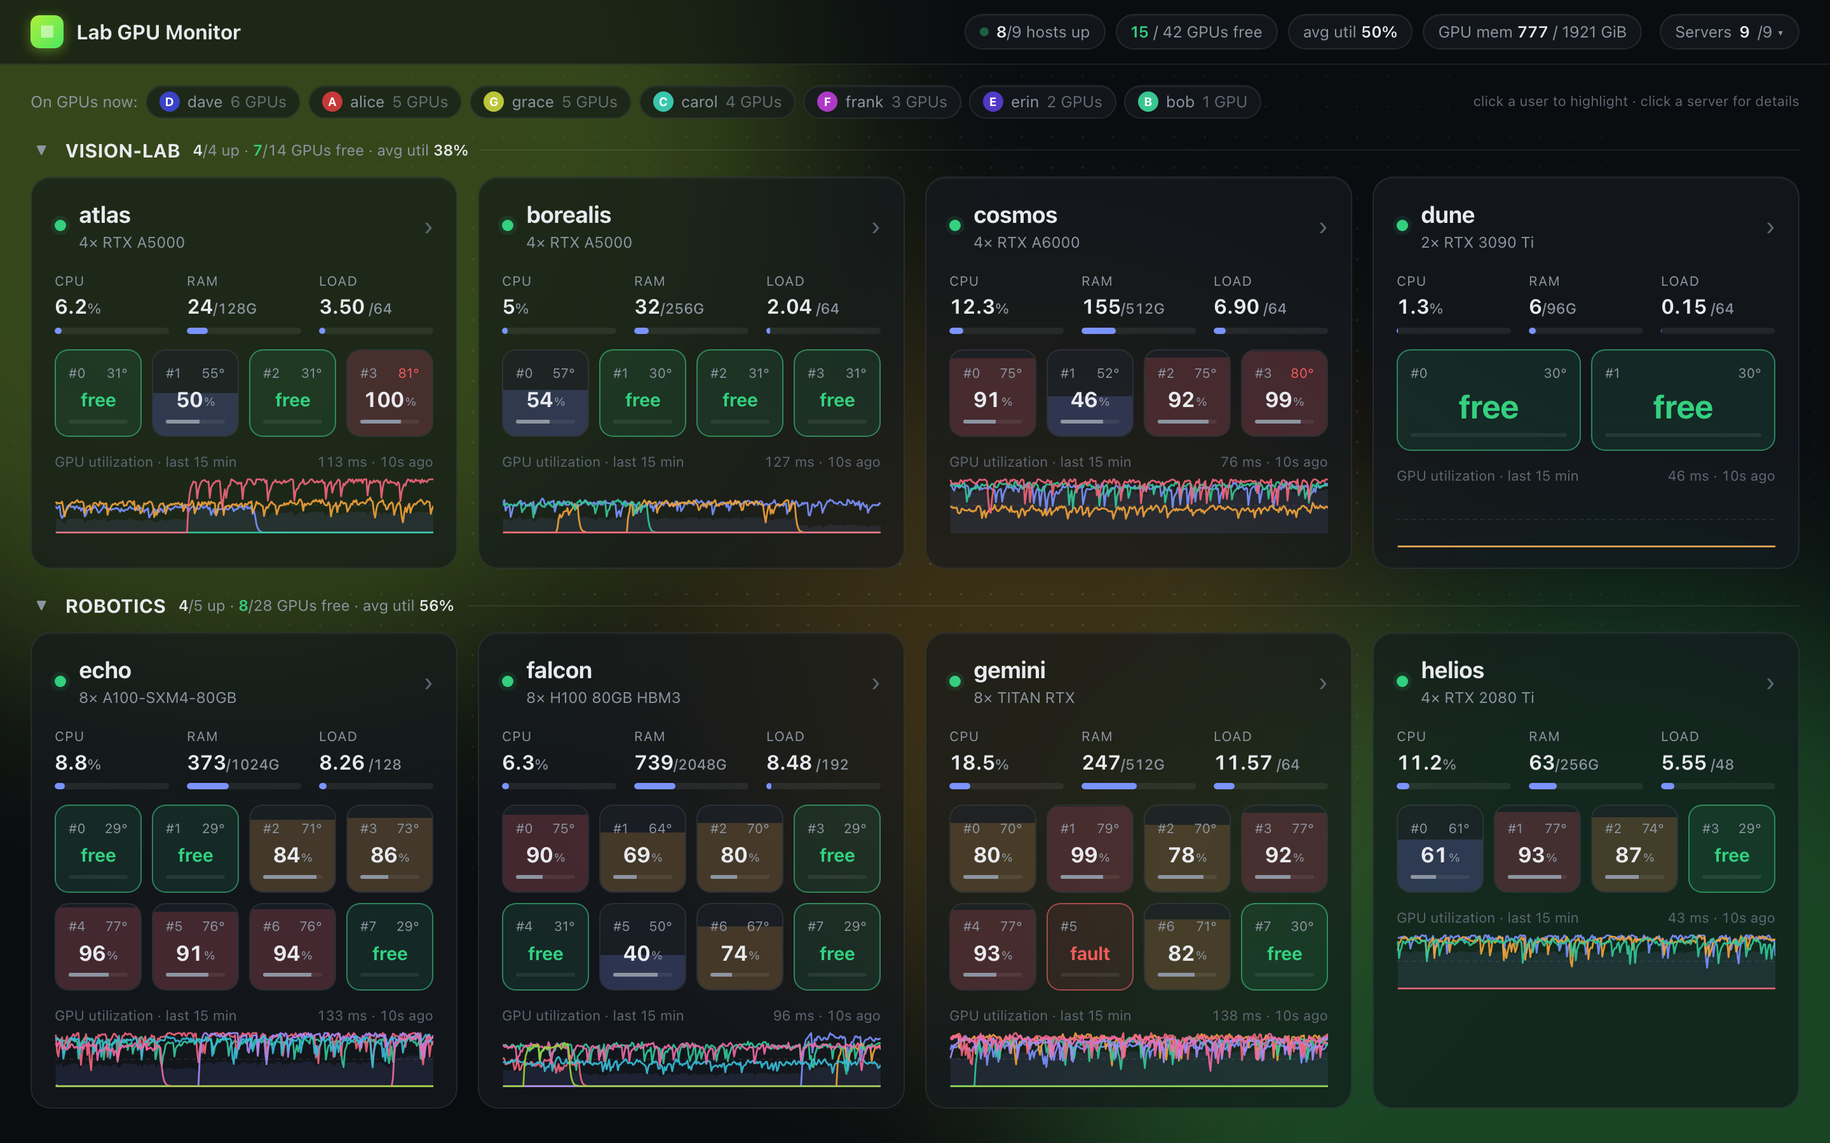
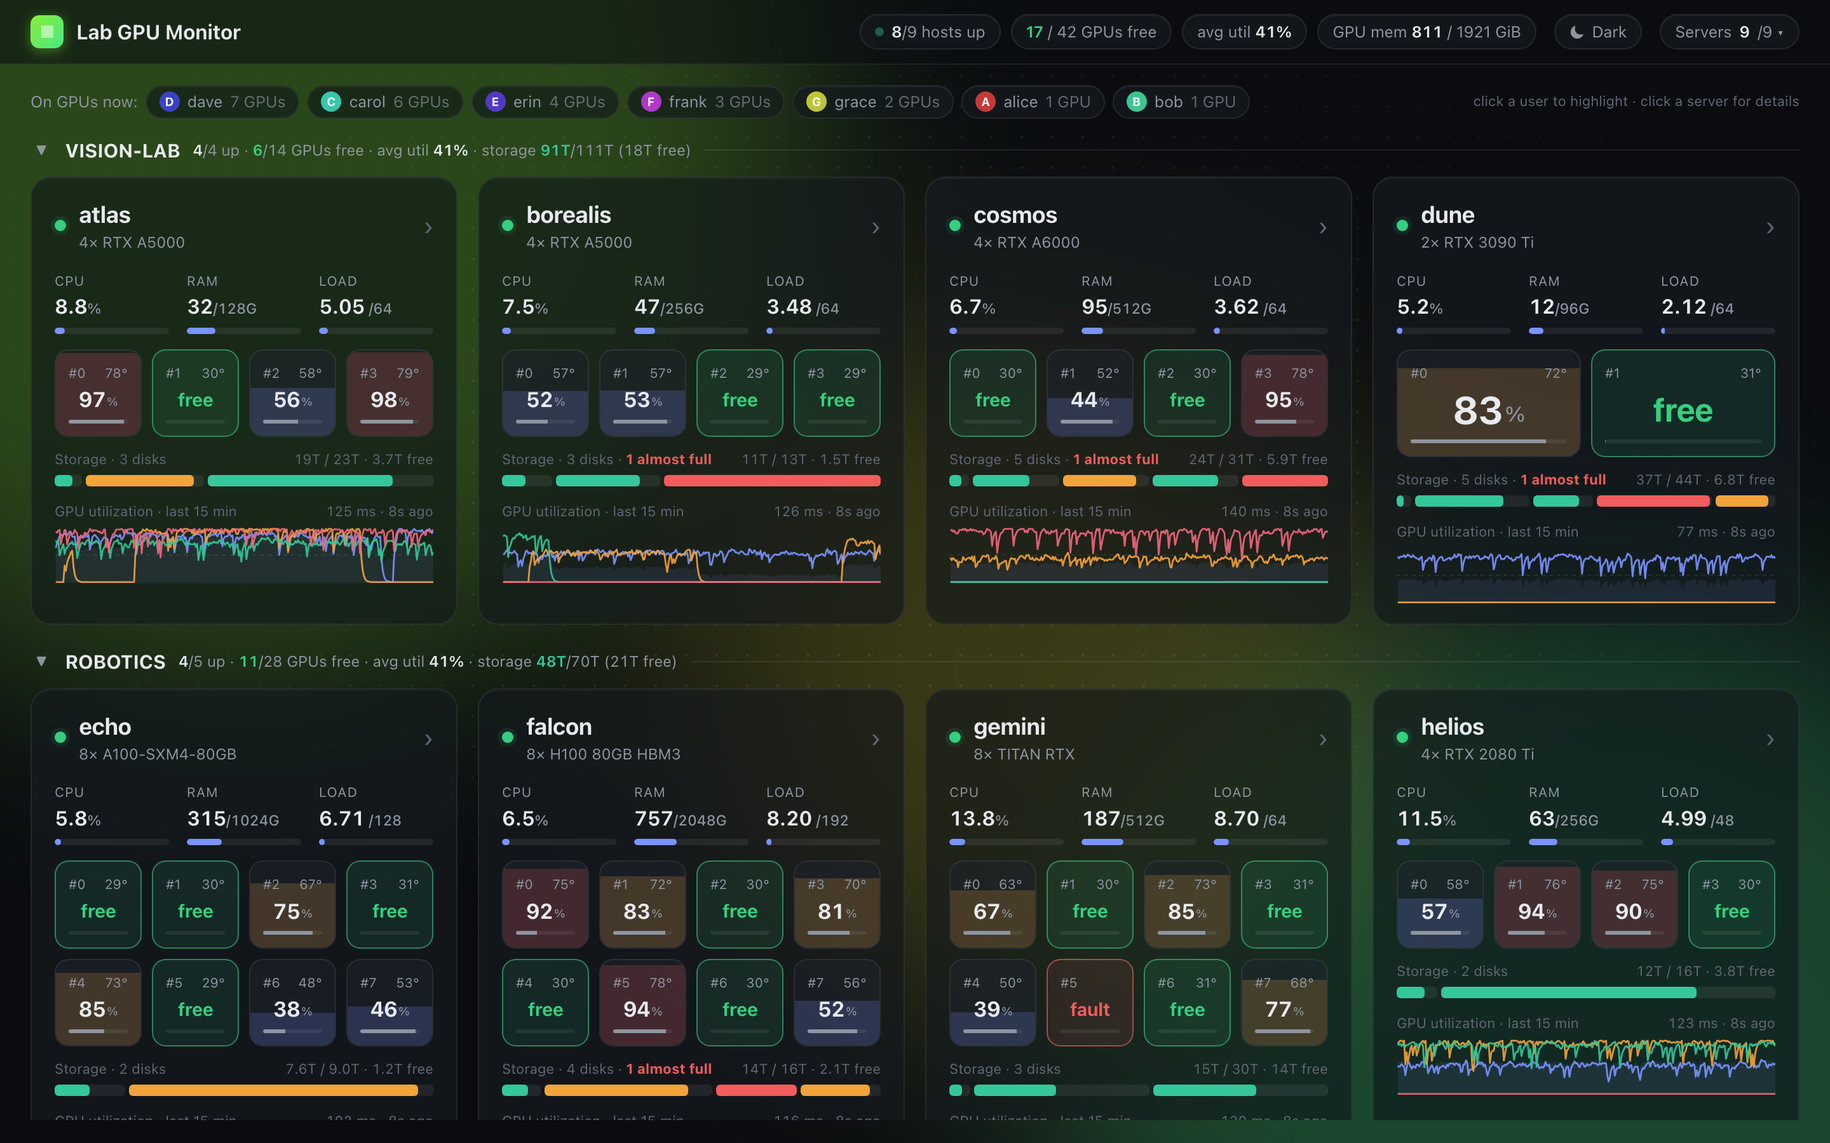
Report data storage per server
Collect every local disk mounted at / or under /data (configurable with
GPUMON_DATA_ROOT) via `df -lPT`, skipping network mounts so shared
disks aren't double-counted and a hung NFS mount can't stall polling.

- Overview: per-card storage strip (one segment per disk, sized by
  capacity, colored by fullness) and storage totals per group.
- Server page: "Data storage" KPI and a Storage tab listing each disk's
  size, used, free and device, flagging disks >=95% full.
- Optional "_aliases" in hosts.json label disks the way other machines
  see them over NFS (e.g. ws1:/data).
- Demo mode gets realistic data disks; README screenshots refreshed.

diff --git a/index.html b/index.html
@@ -144,6 +144,18 @@ main { max-width: 1680px; margin: 0 auto; padding: 16px 24px 32px; }
 .tile.fault .tu { color: var(--bad); }
 .grow.fault { border-color: color-mix(in srgb, var(--bad) 50%, var(--line)); }
 
+/* storage */
+.store { margin-top: 10px; }
+.sstrip { display: flex; gap: 3px; height: 9px; }
+.sseg { position: relative; background: var(--track); border-radius: 3px; overflow: hidden; min-width: 8px; cursor: default; }
+.sseg i { position: absolute; left: 0; top: 0; bottom: 0; border-radius: 3px; }
+.aka { font-size: 11px; color: var(--muted); border: 1px solid var(--line); border-radius: 5px; padding: 0 5px; margin-left: 6px; font-weight: 500; vertical-align: 2px; }
+.stot { display: flex; gap: 14px; flex-wrap: wrap; font-size: 12px; color: var(--muted); padding: 10px 0 4px; border-bottom: 1px solid var(--line); }
+.stot b { color: var(--text); }
+.dsub { display: flex; justify-content: space-between; gap: 8px; font-size: 11.5px; color: var(--faint); margin-top: 4px; flex-wrap: wrap; }
+.tag { font-size: 10.5px; border-radius: 5px; padding: 0 5px; margin-left: 6px; border: 1px solid var(--line); color: var(--muted); font-weight: 500; }
+.tag.bad { color: var(--bad); border-color: color-mix(in srgb, var(--bad) 45%, transparent); }
+
 /* theme toggle */
 .tbtn { cursor: pointer; display: inline-flex; align-items: center; gap: 6px; }
 .tbtn:hover { border-color: var(--faint); color: var(--text); }
@@ -276,7 +288,7 @@ td.c { color: var(--muted); max-width: 0; width: 100%; overflow: hidden; text-ov
   .chart { min-height: 0; }
   .cw { flex: 1; min-height: 60px; height: auto; }
   .dright { min-height: 0; }
-  .gpus { flex: 0 1 auto; min-height: 0; overflow: auto; }
+  .gpus { flex: 0 1 auto; min-height: 0; max-height: 50%; overflow: auto; }
   .tabs-panel { flex: 1 1 180px; min-height: 160px; }
   .tab-body { flex: 1; min-height: 0; }
 }
@@ -317,6 +329,17 @@ function userColor(u) { let h = 0; for (const c of u) h = (h * 31 + c.charCodeAt
 const avatar = u => `<span class="avatar" style="background:${userColor(u)}">${esc(u[0]?.toUpperCase() || "?")}</span>`;
 const cssVar = n => getComputedStyle(document.documentElement).getPropertyValue(n).trim();
 const resolve = c => c.startsWith("var(") ? cssVar(c.slice(4, -1)) : c;
+const fmtSize = b => { if (b == null) return "–"; const u = ["B", "K", "M", "G", "T", "P"]; let i = 0; while (b >= 1024 && i < u.length - 1) { b /= 1024; i++; } return (b < 10 && i ? b.toFixed(1) : Math.round(b)) + u[i]; };
+const diskPct = d => (d.used + (d.avail ?? 0)) > 0 ? 100 * d.used / (d.used + (d.avail ?? d.total - d.used)) : 0;
+const diskCol = p => p >= 95 ? "var(--bad)" : p >= 85 ? "var(--warn)" : "var(--s2)";
+const diskLabel = (h, d) => (h.alias && d.label !== "/" ? h.alias + ":" : "") + d.label;  // a separate system disk isn't part of the export
+const storeSum = disks => { let used = 0, total = 0, avail = 0, full = 0; disks.forEach(d => { used += d.used || 0; total += d.total || 0; avail += d.avail || 0; if (diskPct(d) >= 95) full++; }); return { used, total, avail, full, n: disks.length, pct: used + avail ? 100 * used / (used + avail) : 0 }; };
+function storageStrip(h) {
+  const ds = h.disks || []; if (!ds.length) return "";
+  const t = storeSum(ds);
+  const segs = ds.map((d, i) => { const p = diskPct(d); return `<div class="sseg" style="flex:${Math.max(d.total, t.total * 0.04)} 1 0" data-dtip="${esc(h.host)}|${i}"><i style="width:${clamp(p)}%;background:${diskCol(p)}"></i></div>`; }).join("");
+  return `<div class="store"><div class="trend-h"><span>Storage · ${t.n} disk${t.n > 1 ? "s" : ""}${t.full ? ` · <b style="color:var(--bad)">${t.full} almost full</b>` : ""}</span><span class="num">${fmtSize(t.used)} / ${fmtSize(t.total)} · ${fmtSize(t.avail)} free</span></div><div class="sstrip">${segs}</div></div>`;
+}
 const avgUtil = gpus => gpus.length ? gpus.reduce((a, g) => a + (g.util || 0), 0) / gpus.length : 0;
 
 /* ---------- dynamic background: hue follows GPU load ---------- */
@@ -377,6 +400,12 @@ function gpuTip(host, g) {
     ${procs || `<div style="margin-top:6px;color:var(--ok);font-weight:600">Free</div>`}`;
 }
 document.addEventListener("mousemove", e => {
+  const ds = e.target.closest?.("[data-dtip]");
+  if (ds) {
+    const [host, i] = ds.dataset.dtip.split("|"), h = S.stats?.hosts.find(x => x.host === host), d = h?.disks?.[i];
+    if (d) { const p = diskPct(d); showTip(`<div class="tt">${esc(diskLabel(h, d))}</div><div class="row"><span>Used</span><b class="num" style="color:${diskCol(p)}">${fmtSize(d.used)} / ${fmtSize(d.total)} · ${Math.round(p)}%</b></div><div class="row"><span>Free</span><b class="num">${fmtSize(d.avail)}</b></div><div class="cmd mono">${esc(d.fs)} · ${esc(d.type || "")}${d.system ? " · system disk" : ""}</div>`, e.clientX, e.clientY); }
+    return;
+  }
   const el = e.target.closest?.("[data-tip]");
   if (!el) { if (!e.target.closest?.("canvas")) hideTip(); return; }
   const [host, idx] = el.dataset.tip.split(":");
@@ -554,7 +583,7 @@ function hostCard(h) {
     </div>`;
   }).join("");
   return `<a class="hcard glass ${h.ok ? "" : "down"}" href="#/h/${encodeURIComponent(h.host)}" tabindex="0">
-    <div class="hhead"><span class="sdot"></span><div><div class="hname">${esc(h.host)}${h.via ? `<span class="via" title="direct connection failed; reached through the ${esc(h.via)} alias">via ${esc(h.via)}</span>` : ""}</div><div class="hsub">${esc(hw)}</div></div><span class="go">›</span></div>
+    <div class="hhead"><span class="sdot"></span><div><div class="hname">${esc(h.host)}${h.alias ? `<span class="aka" title="other machines see this server as ${esc(h.alias)}">${esc(h.alias)}</span>` : ""}${h.via ? `<span class="via" title="direct connection failed; reached through the ${esc(h.via)} alias">via ${esc(h.via)}</span>` : ""}</div><div class="hsub">${esc(hw)}</div></div><span class="go">›</span></div>
     ${h.ok ? "" : `<div class="errline">${h.updated ? "offline, showing last data · " : ""}${esc(h.error)}</div>`}
     ${h.updated ? `
     <div class="minis">
@@ -563,6 +592,7 @@ function hostCard(h) {
       <div class="mini"><div class="k">Load</div><div class="v num">${h.load?.[0]?.toFixed(2) ?? "–"}<small> /${h.nproc}</small></div>${bar(loadPct)}</div>
     </div>
     <div class="tiles">${tiles}</div>
+    ${storageStrip(h)}
     <div class="trend"><div class="trend-h"><span>GPU utilization · last 15 min</span><span class="num">${h.latency_ms} ms · ${ago(h.updated)}</span></div>${trendSvg(h.host, gpus.length)}</div>` : ""}
   </a>`;
 }
@@ -586,7 +616,7 @@ function renderOverview() {
     const rows = Math.ceil(g.hosts.length / cols);
     return `<section class="group ${col ? "collapsed" : ""}" style="--rows:${rows};--cols:${cols}">
       <div class="group-h"><button class="gtoggle" data-collapse="${esc(g.name)}" title="collapse">▼</button><h2>${esc(g.name)}</h2>
-        <span class="gmeta num"><b>${up}</b>/${g.hosts.length} up${g.hosts.length < g.all.length ? ` (${g.all.length - g.hosts.length} hidden)` : ""} · <b style="color:var(--ok)">${gp.filter(isFree).length}</b>/${gp.length} GPUs free · avg util <b>${Math.round(avgUtil(gp))}%</b></span><span class="line"></span></div>
+        <span class="gmeta num"><b>${up}</b>/${g.hosts.length} up${g.hosts.length < g.all.length ? ` (${g.all.length - g.hosts.length} hidden)` : ""} · <b style="color:var(--ok)">${gp.filter(isFree).length}</b>/${gp.length} GPUs free · avg util <b>${Math.round(avgUtil(gp))}%</b>${(() => { const t = storeSum(g.hosts.flatMap(h => h.disks || [])); return t.n ? ` · storage <b style="color:${diskCol(t.pct)}">${fmtSize(t.used)}</b>/${fmtSize(t.total)} (${fmtSize(t.avail)} free)` : ""; })()}</span><span class="line"></span></div>
       ${col ? "" : `<div class="grid">${g.hosts.map(hostCard).join("")}</div>`}
     </section>`;
   }).join("");
@@ -647,6 +677,7 @@ function renderDetail(host) {
   const h = S.stats.hosts.find(x => x.host === host);
   if (!h) { $("#app").innerHTML = `<div class="empty">Unknown server “${esc(host)}”. <a href="#/" style="color:var(--accent)">Back</a></div>`; S.view = null; return; }
   if (S.view !== host) buildDetail(host);
+  $(".dtitle").innerHTML = `<span class="sdot" id="d-dot"></span>${esc(host)}${h.alias ? `<span class="aka">${esc(h.alias)}</span>` : ""}`;
   $("#crumb").innerHTML = `/ ${esc(h.group)} / <b>${esc(host)}</b>${h.via ? ` <span class="via">via ${esc(h.via)}</span>` : ""}`;
   const gpus = h.gpus || [], info = h.info || {};
   $("#d-dot").style.background = h.ok ? "" : "var(--bad)";
@@ -656,7 +687,6 @@ function renderDetail(host) {
   if (!h.updated) return;
 
   const memPct = h.mem_total ? 100 * (1 - h.mem_avail / h.mem_total) : 0;
-  const swapUsed = (h.swap_total || 0) - (h.swap_free || 0);
   const gFree = gpus.filter(isFree).length, gUtil = avgUtil(gpus);
   const gMemU = gpus.reduce((a, g) => a + (g.mem_used || 0), 0), gMemT = gpus.reduce((a, g) => a + (g.mem_total || 0), 0);
   const kpi = (k, v, p) => `<div class="kpi glass"><div class="k">${k}</div><div class="v num">${v}</div>${p != null ? bar(p) : `<div class="bar" style="background:none"></div>`}</div>`;
@@ -667,7 +697,7 @@ function renderDetail(host) {
     kpi("Avg GPU util", `${Math.round(gUtil)}<small>%</small>`, gUtil) +
     kpi("GPU memory", `${(gMemU/1024).toFixed(1)}<small> / ${(gMemT/1024).toFixed(0)} GiB</small>`, gMemT ? 100 * gMemU / gMemT : 0) +
     kpi("Load (1 · 5 · 15 min)", `${h.load?.[0]?.toFixed(2) ?? "–"}<small> · ${h.load?.[1]?.toFixed(2) ?? "–"} · ${h.load?.[2]?.toFixed(2) ?? "–"}</small>`, h.nproc ? 100 * h.load[0] / h.nproc : 0) +
-    kpi("Swap", `${fmtGiB(swapUsed, 1)}<small> / ${fmtGiB(h.swap_total || 0)} GiB</small>`, h.swap_total ? 100 * swapUsed / h.swap_total : 0) +
+    (() => { const t = storeSum(h.disks || []); return `<div class="kpi glass"><div class="k">Data storage · ${t.n} disk${t.n === 1 ? "" : "s"}</div><div class="v num" style="${t.full ? "color:var(--bad)" : ""}">${fmtSize(t.used)}<small> / ${fmtSize(t.total)}</small></div>${bar(t.pct, diskCol(t.pct))}</div>`; })() +
     kpi("Uptime", days(h.uptime));
 
   // charts
@@ -703,14 +733,17 @@ function renderDetail(host) {
 
   // tabbed panel
   const top = h.top || [], disks = h.disks || [], who = h.who || [];
-  const tabs = [["procs", "Top processes", top.length], ["disks", "Disks", disks.length], ["users", "Logged in", who.length]];
+  const tabs = [["procs", "Top processes", top.length], ["disks", "Storage", disks.length], ["users", "Logged in", who.length]];
   $("#d-tabs").innerHTML = tabs.map(([k, l, n]) => `<button data-tab="${k}" class="${S.tab === k ? "on" : ""}">${l}<span class="n">${n}</span></button>`).join("");
   let body = "";
   if (S.tab === "procs") {
     body = `<table><thead><tr><th>PID</th><th>User</th><th class="r">CPU%</th><th class="r">MEM%</th><th>Elapsed</th><th>Command</th></tr></thead><tbody>${
       top.map(p => `<tr><td class="num">${esc(p.pid)}</td><td>${avatar(p.user)} ${esc(p.user)}</td><td class="r num">${p.cpu?.toFixed(1)}</td><td class="r num">${p.mem?.toFixed(1)}</td><td class="num">${esc(p.etime)}</td><td class="c mono" title="${esc(p.cmd)}">${esc(p.cmd)}</td></tr>`).join("")}</tbody></table>`;
   } else if (S.tab === "disks") {
-    body = disks.map(d => { const p = d.total ? 100 * d.used / d.total : 0; return `<div class="disk"><div class="lbl"><span><b>${esc(d.mount)}</b> <span style="color:var(--faint)">${esc(d.fs)}</span></span><b class="num">${fmtGiB(d.used)} / ${fmtGiB(d.total)} GiB · ${Math.round(p)}%</b></div>${bar(p, p >= 90 ? "var(--bad)" : p >= 75 ? "var(--warn)" : "var(--s2)")}</div>`; }).join("") || `<div class="kbd" style="padding:10px 0">none</div>`;
+    const t = storeSum(disks);
+    body = disks.length ? `<div class="stot num"><span>Total <b>${fmtSize(t.total)}</b></span><span>Used <b style="color:${diskCol(t.pct)}">${fmtSize(t.used)}</b> (${Math.round(t.pct)}%)</span><span>Free <b>${fmtSize(t.avail)}</b></span>${t.full ? `<span style="color:var(--bad)">${t.full} disk${t.full > 1 ? "s" : ""} ≥95% full</span>` : ""}</div>` +
+      disks.map(d => { const p = diskPct(d); return `<div class="disk"><div class="lbl"><span><b>${esc(diskLabel(h, d))}</b>${d.system ? `<span class="tag">system disk</span>` : ""}${p >= 95 ? `<span class="tag bad">almost full</span>` : ""}</span><b class="num" style="color:${diskCol(p)}">${Math.round(p)}%</b></div>${bar(p, diskCol(p))}<div class="dsub num"><span class="mono">${esc(d.fs)} · ${esc(d.type || "")}</span><span>${fmtSize(d.used)} used · <b style="color:var(--text)">${fmtSize(d.avail)}</b> free · ${fmtSize(d.total)} total</span></div></div>`; }).join("")
+      : `<div class="kbd" style="padding:10px 0">no local disks under /data</div>`;
   } else {
     body = `<div style="display:flex;gap:6px;flex-wrap:wrap;padding:10px 0">${who.map(w => `<span class="gu" style="padding-right:10px">${avatar(w.user)}<b>${esc(w.user)}</b><span style="color:var(--muted)">${w.sessions} session${w.sessions > 1 ? "s" : ""}</span></span>`).join("") || `<span class="kbd">nobody</span>`}</div>`;
   }

diff --git a/server.py b/server.py
@@ -26,6 +26,8 @@ HERE = os.path.dirname(os.path.abspath(__file__))
 
 
 DEMO = "--demo" in sys.argv[1:]
+ALIASES = {}  # host -> name other machines use for it (e.g. its NFS export name), from "_aliases"
+DATA_ROOT = os.environ.get("GPUMON_DATA_ROOT", "/data").rstrip("/") or "/data"
 
 
 def load_groups():
@@ -45,6 +47,7 @@ def load_groups():
         )
     with open(path) as f:
         cfg = json.load(f)
+    ALIASES.update(cfg.get("_aliases") or {})
     groups = [{"name": k, "hosts": v} for k, v in cfg.items() if not k.startswith("_") and v]
     if not groups:
         sys.exit(f"gpumon: {path} has no hosts")
@@ -86,7 +89,7 @@ echo '##GPU'; nvidia-smi --query-gpu=%s --format=csv,noheader,nounits 2>&1
 echo '##APPS'; nvidia-smi --query-compute-apps=gpu_uuid,pid,used_memory --format=csv,noheader,nounits 2>/dev/null
 echo '##PS'; for p in $(nvidia-smi --query-compute-apps=pid --format=csv,noheader 2>/dev/null | sort -u); do ps -o pid=,user:32=,etime=,args= -p "$p" 2>/dev/null; done
 echo '##TOP'; ps -eo pid=,user:32=,pcpu=,pmem=,etime=,args= --sort=-pcpu 2>/dev/null | head -12
-echo '##DISK'; df -P -B1 / /home /data /scratch 2>/dev/null | tail -n +2
+echo '##DISK'; timeout 8 df -lPT -B1 -x tmpfs -x devtmpfs -x overlay -x squashfs -x efivarfs 2>/dev/null | tail -n +2
 echo '##WHO'; who 2>/dev/null | awk '{print $1}' | sort | uniq -c
 echo '##END'
 """ % GPU_FIELDS
@@ -100,7 +103,8 @@ echo '##CUDA'; nvidia-smi 2>/dev/null | grep -o 'CUDA Version: [0-9.]*' | awk '{
 echo '##END'
 """
 
-state = {h: {"host": h, "group": GROUP_OF[h], "ok": False, "error": "connecting…", "updated": None, "info": {}, "via": None}
+state = {h: {"host": h, "group": GROUP_OF[h], "ok": False, "error": "connecting…", "updated": None, "info": {}, "via": None,
+             "alias": ALIASES.get(h)}
          for h in HOSTS}
 history = {h: deque(maxlen=max(10, int(HISTORY_SECS / INTERVAL))) for h in HOSTS}
 lock = threading.Lock()
@@ -190,12 +194,7 @@ def parse(out):
             top.append({"pid": parts[0], "user": parts[1], "cpu": num(parts[2]), "mem": num(parts[3]),
                         "etime": parts[4], "cmd": parts[5] if len(parts) > 5 else ""})
 
-    disks, seen = [], set()
-    for l in sec.get("DISK", []):
-        parts = l.split()
-        if len(parts) >= 6 and parts[0] not in seen:
-            seen.add(parts[0])
-            disks.append({"fs": parts[0], "mount": parts[5], "total": num(parts[1]), "used": num(parts[2])})
+    disks = parse_disks(sec.get("DISK", []))
 
     who = []
     for l in sec.get("WHO", []):
@@ -217,6 +216,37 @@ def parse(out):
         "load": load, "uptime": num(first(sec, "UPTIME", "")),
         "gpus": gpus, "top": top, "disks": disks, "who": who,
     }
+
+
+def _natural(s):
+    return [int(t) if t.isdigit() else t for t in re.split(r"(\d+)", s)]
+
+
+def parse_disks(lines):
+    """Local disks mounted at / or under DATA_ROOT, from `df -lPT -B1`.
+
+    Each gets a `label`: its mount point, except that when DATA_ROOT is not a separate disk the root
+    disk is labelled DATA_ROOT (that's where the data lives) and flagged `system`.
+    """
+    disks, seen = [], set()
+    for l in lines:
+        p = l.split()
+        if len(p) < 7:
+            continue
+        fs, fstype, size, used, avail, mount = p[0], p[1], num(p[2]), num(p[3]), num(p[4]), " ".join(p[6:])
+        if not size or fs in seen:
+            continue
+        if mount != "/" and mount != DATA_ROOT and not mount.startswith(DATA_ROOT + "/"):
+            continue
+        seen.add(fs)
+        disks.append({"fs": fs, "type": fstype, "mount": mount, "label": mount, "total": size, "used": used,
+                      "avail": avail, "system": mount == "/"})
+    if not any(d["mount"] == DATA_ROOT for d in disks):
+        for d in disks:
+            if d["mount"] == "/":
+                d["label"] = DATA_ROOT  # data folder lives on the system disk
+    disks.sort(key=lambda d: (d["mount"] != "/", _natural(d["label"])))
+    return disks
 
 
 def sample(d):

diff --git a/demo.py b/demo.py
@@ -56,6 +56,16 @@ class Host:
         self.uptime0 = t0 - self.rng.uniform(3, 60) * 86400
         self.pid = self.rng.randint(100000, 900000)
         self.gpus = [{"index": i, "job": None, "util": 0.0} for i in range(n)]
+        TiB = 1024 ** 4
+        self.disks = [{"fs": "/dev/nvme0n1p2", "type": "ext4", "mount": "/", "label": "/", "system": True,
+                       "total": 1.7 * TiB, "used": 1.7 * TiB * self.rng.uniform(0.3, 0.7)}]
+        for k in range(self.rng.choice([1, 2, 3, 4])):
+            size = self.rng.choice([3.5, 7.3, 7.3, 14.0]) * TiB
+            self.disks.append({"fs": f"/dev/sd{chr(98 + k)}", "type": "ext4", "mount": f"/data/add_disk{k}",
+                               "label": f"/data/add_disk{k}", "system": False, "total": size,
+                               "used": size * min(0.995, self.rng.uniform(0.45, 1.05))})
+        for d in self.disks:
+            d["avail"] = max(0.0, d["total"] * 0.98 - d["used"])
         for g in self.gpus:
             if self.rng.random() < 0.6:
                 self._start_job(g, t0 - self.rng.uniform(600, 3 * 86400))
@@ -124,8 +134,7 @@ class Host:
             "mem_total": ram, "mem_avail": ram - used, "swap_total": 8 * 1073741824, "swap_free": 7.2 * 1073741824,
             "load": [round(load1, 2), round(load1 * 0.95, 2), round(load1 * 0.9, 2)], "uptime": t - self.uptime0,
             "gpus": gpus, "top": top[:12],
-            "disks": [{"fs": "/dev/nvme0n1p2", "mount": "/", "total": 1.8e12, "used": 1.8e12 * 0.62},
-                      {"fs": "/dev/md0", "mount": "/data", "total": 14e12, "used": 14e12 * 0.81}],
+            "disks": self.disks,
             "who": [{"user": u, "sessions": c} for u, c in sorted(who.items())],
             "info": {"os": "Ubuntu 24.04.1 LTS", "kernel": "6.8.0-45-generic", "cpumodel": self.cpumodel,
                      "driver": "550.120", "cuda": "12.4"},

diff --git a/README.md b/README.md
@@ -84,6 +84,16 @@ of `Host` names from your `~/.ssh/config`:
 }
 ```
 
+Optional: if other machines mount a server's disks under a different name (for example `ws1:/data`
+over NFS), add `_aliases` so its disks are labelled the way people see them in `df -h`:
+
+```json
+{
+  "lab-a": ["gpu-node1", "gpu-node2"],
+  "_aliases": { "gpu-node1": "ws1", "gpu-node2": "ws2" }
+}
+```
+
 ### 3. Run
 
 ```bash
@@ -118,6 +128,7 @@ on networks you trust. Never use `0.0.0.0` on a machine with a public IP.
 | `GPUMON_BIND`        | `127.0.0.1`         | address to listen on (see below) |
 | `GPUMON_INTERVAL`    | `3`                 | seconds between polls            |
 | `GPUMON_HISTORY`     | `3600`              | seconds of history kept for charts |
+| `GPUMON_DATA_ROOT`   | `/data`             | disks mounted here (and `/`) are reported as storage |
 | `GPUMON_CTL_DIR`     | `/tmp/gpumon-<uid>` | private folder for SSH connection-sharing sockets |
 
 ## Using the dashboard
@@ -125,6 +136,10 @@ on networks you trust. Never use `0.0.0.0` on a machine with a public IP.
 - **Overview:** one card per server, grouped. Hover a GPU tile to see who is using it and the command.
   Click a user at the top to highlight their GPUs everywhere.
 - **Servers ▾ (top right):** check or uncheck groups and servers to show. Your choice is remembered.
+- **Storage:** each card has a strip with one segment per local disk mounted at `/` or under `/data`
+  (sized by capacity, colored by how full it is). The group header shows the group's total, and the
+  server page has a **Storage** tab with every disk's size, used and free space. Network mounts are
+  skipped, so shared disks aren't counted twice. Set `GPUMON_DATA_ROOT` to watch a path other than `/data`.
 - **Click a server** for charts (GPU util / memory / temperature / power, CPU & RAM, load), per-GPU
   details, top processes, disks and logged-in users. Hover the charts for exact values, and click a
   legend entry to hide that series.
